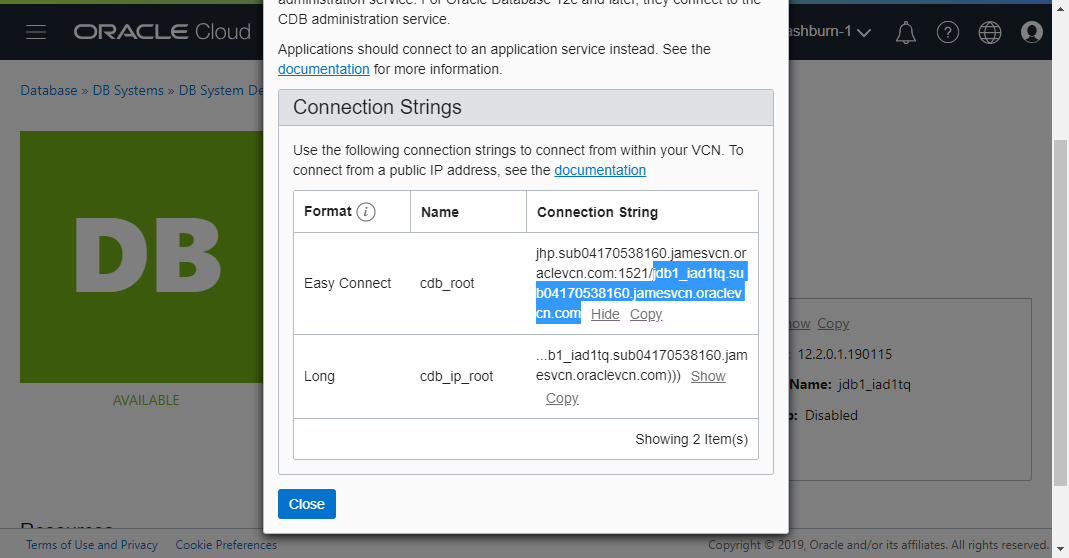
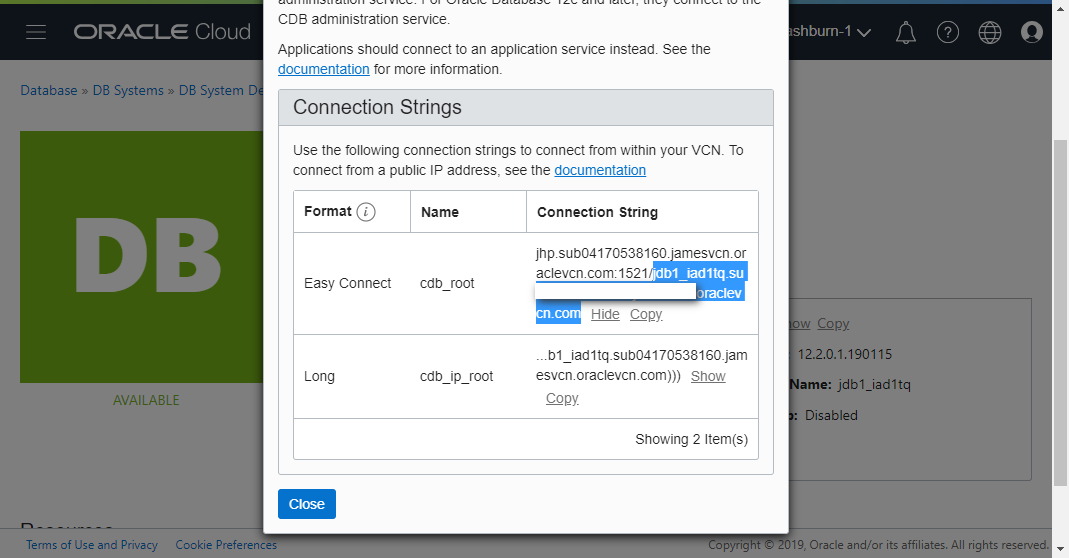
modify data for security

Changed region(s): [[0.4939, 0.4875, 0.6791, 0.5484]]

diff --git a/98-Articles_for_Oracle_DBAs/Create_sample_schemas_in_12c.md b/98-Articles_for_Oracle_DBAs/Create_sample_schemas_in_12c.md
@@ -17,7 +17,7 @@ https://github.com/oracle/db-sample-schemas/releases/tag/v12.2.0.1
     public ip : 129.213.147.97   
     private ip : 10.0.0.3    
     Connection Strings : Easy Connect :    
-    jdbcs.sub04170538160.jamesvcn.oraclevcn.com:1521/jdb01_iad1m2.sub04170538160.jamesvcn.oraclevcn.com    
+    jdbcs.sub04xxx8160.jamesvcn.oraxxxvcn.com:1521/jdb01_iad1m2.sub04xxx8160.jamesvcn.oraxxxvcn.com    
 
 3. When you create sample schemas , you must connect to PDB (Private Database) , otherwise an error will occur when create schemas.
 
@@ -55,20 +55,20 @@ Service "+ASM_DATA" has 1 instance(s).
   Instance "+ASM1", status READY, has 1 handler(s) for this service...
 Service "+ASM_RECO" has 1 instance(s).
   Instance "+ASM1", status READY, has 1 handler(s) for this service...
-Service "872aa79187a118dde0530300000a4518.sub04170538160.jamesvcn.oraclevcn.com" has 1 instance(s).
+Service "872aa79187a118ddxxxxx0000a4518.sub041xxxx0.jamesvcn.xxxxx.com" has 1 instance(s).
   Instance "jdb01", status READY, has 2 handler(s) for this service...
-Service "jdb01XDB.sub04170538160.jamesvcn.oraclevcn.com" has 1 instance(s).
+Service "jdb01XDB.sub04xxx8160.jamesvcn.oraxxxvcn.com" has 1 instance(s).
   Instance "jdb01", status READY, has 1 handler(s) for this service...
-Service "jdb01_iad1m2.sub04170538160.jamesvcn.oraclevcn.com" has 1 instance(s). <= "CDB 連線"
+Service "jdb01_iad1m2.sub04xxx8160.jamesvcn.oraxxxvcn.com" has 1 instance(s). <= "CDB 連線"
   Instance "jdb01", status READY, has 2 handler(s) for this service...
-Service "jpdf01.sub04170538160.jamesvcn.oraclevcn.com" has 1 instance(s).       <= "PDB 連線"
+Service "jpxx0db1.sub04xxx8160.jamesvcn.oraxxxvcn.com" has 1 instance(s).       <= "PDB 連線"
   Instance "jdb01", status READY, has 2 handler(s) for this service...
 The command completed successfully
 ```
 
 * 根據 list 的 service list , 連線說明如下。    
-jdb01_iad1m2.sub04170538160.jamesvcn.oraclevcn.com is connect to CDB.    
-jpdf01.sub04170538160.jamesvcn.oraclevcn.com       is connect to PDB    
+jdb01_iad1m2.sub04xxx8160.jamesvcn.oraxxxvcn.com is connect to CDB.    
+jpxx0db1.sub04xxx8160.jamesvcn.oraxxxvcn.com       is connect to PDB    
 
 #### Verify available connections.
 
@@ -76,18 +76,18 @@ Note : In CDB database , You can't not create any normal user in CDB.
 
 * connect to CDB
 ```
-sqlplus system/YourSysPassowrd@10.0.0.3:1521/jdb01_iad1m2.sub04170538160.jamesvcn.oraclevcn.com
+sqlplus system/YourSysPassowrd@10.0.0.3:1521/jdb01_iad1m2.sub04xxx8160.jamesvcn.oraxxxvcn.com
 
-sqlplus sys/YourSysPassowrd@10.0.0.3:1521/jdb01_iad1m2.sub04170538160.jamesvcn.oraclevcn.com as sysdba
+sqlplus sys/YourSysPassowrd@10.0.0.3:1521/jdb01_iad1m2.sub04xxx8160.jamesvcn.oraxxxvcn.com as sysdba
 
-sqlplus sys/YourSysPassowrd@jdbcs.sub04170538160.jamesvcn.oraclevcn.com:1521/jdb01_iad1m2.sub04170538160.jamesvcn.oraclevcn.com as sysdba
+sqlplus sys/YourSysPassowrd@jdbcs.sub04xxx8160.jamesvcn.oraxxxvcn.com:1521/jdb01_iad1m2.sub04xxx8160.jamesvcn.oraxxxvcn.com as sysdba
 
 SQL> show pdbs
 
     CON_ID CON_NAME                       OPEN MODE  RESTRICTED
 ---------- ------------------------------ ---------- ----------
          2 PDB$SEED                       READ ONLY  NO
-         3 JPDF01                         READ WRITE NO
+         3 jpxx0db1                         READ WRITE NO
 
 SQL> show con_name
 
@@ -98,14 +98,14 @@ CDB$ROOT
 
 * connect to PDB
 ```
-# sqlplus sys/YourSysPassowrd@jdbcs.sub04170538160.jamesvcn.oraclevcn.com:1521/jpdf01.sub04170538160.jamesvcn.oraclevcn.com as sysdba
+# sqlplus sys/YourSysPassowrd@jdbcs.sub04xxx8160.jamesvcn.oraxxxvcn.com:1521/jpxx0db1.sub04xxx8160.jamesvcn.oraxxxvcn.com as sysdba
 
 
 SQL> show con_name;
 
 CON_NAME
 ------------------------------
-JPDF01
+jpxx0db1
 ```
 
 * 下載 oracle db 12.2 sample schema       
@@ -145,13 +145,13 @@ cp -a db-sample-schemas-12.2.0.1/ $ORACLE_HOME/demo
 ```
 * 使用 sys 帳號 連線到 PDB。
 ```
-# sqlplus sys/YourSysPassowrd@jdbcs.sub04170538160.jamesvcn.oraclevcn.com:1521/jpdf01.sub04170538160.jamesvcn.oraclevcn.com as sysdba
+# sqlplus sys/YourSysPassowrd@jdbcs.sub04xxx8160.jamesvcn.oraxxxvcn.com:1521/jpxx0db1.sub04xxx8160.jamesvcn.oraxxxvcn.com as sysdba
 
 SQL> show con_name;
 
 CON_NAME
 ------------------------------
-JPDF01
+jpxx0db1
 
 ```
 
@@ -163,7 +163,7 @@ SQL> @?/demo/db-sample-schemas-12.2.0.1/mksample YourSysPassowrd YourSysPassowrd
   UserPassword1234-- UserPassword1234--
   users temp
   $ORACLE_HOME/demo/db-sample-schemas-12.2.0.1/log/
-  jdbcs.sub04170538160.jamesvcn.oraclevcn.com:1521/jpdf01.sub04170538160.jamesvcn.oraclevcn.com
+  jdbcs.sub04xxx8160.jamesvcn.oraxxxvcn.com:1521/jpxx0db1.sub04xxx8160.jamesvcn.oraxxxvcn.com
 
 ............. 略 .................
 specify temporary tablespace for HR as parameter 3:

diff --git a/98-Articles_for_Oracle_DBAs/Explain_plan.md b/98-Articles_for_Oracle_DBAs/Explain_plan.md
@@ -13,7 +13,7 @@ AND    e.last_name like 'A%';
 #### 使用 user 產生預估的執行計畫
 
 ```sql
-SQL>  conn oe/"YourPassword"@jdbcs.sub04170538160.jamesvcn.oraclevcn.com:1521/jpdf01.sub04170538160.jamesvcn.oraclevcn.com
+SQL>  conn oe/"YourPassword"@jdbcs.subxxx538160.jaxxxxvcn.oraclevcn.com:1521/jpxxx01.subxxx538160.jaxxxxvcn.oraclevcn.com
 
 SQL> explain plan for
   SELECT /*+ james text*/ e.last_name, e.first_name, d.department_name
@@ -61,7 +61,7 @@ Note
 #### 使用 system user 顯示已經執行過的執行計畫
 
 ```sql
- SQL> conn system/"YourPassword"@jdbcs.sub04170538160.jamesvcn.oraclevcn.com:1521/jpdf01.sub04170538160.jamesvcn.oraclevcn.com
+ SQL> conn system/"YourPassword"@jdbcs.subxxx538160.jaxxxxvcn.oraclevcn.com:1521/jpxxx01.subxxx538160.jaxxxxvcn.oraclevcn.com
 
 -- 1. 查詢 執行過的 SQL ID
 

diff --git a/98-Articles_for_Oracle_DBAs/AWR_Report_for_ADW.md b/98-Articles_for_Oracle_DBAs/AWR_Report_for_ADW.md
@@ -7,7 +7,7 @@ SRDC - How to Collect Performance Information for Oracle Autonomous Data Warehou
 
 ```sql
 -- connect to adw as admin
-conn admin/"2U04Ru6w80909--"@jdwdb01_high
+conn admin/"YourAdminPassword"@jdxxx01_high
 
 -- set sqlplus properties
 col PDB_NAME format a25
